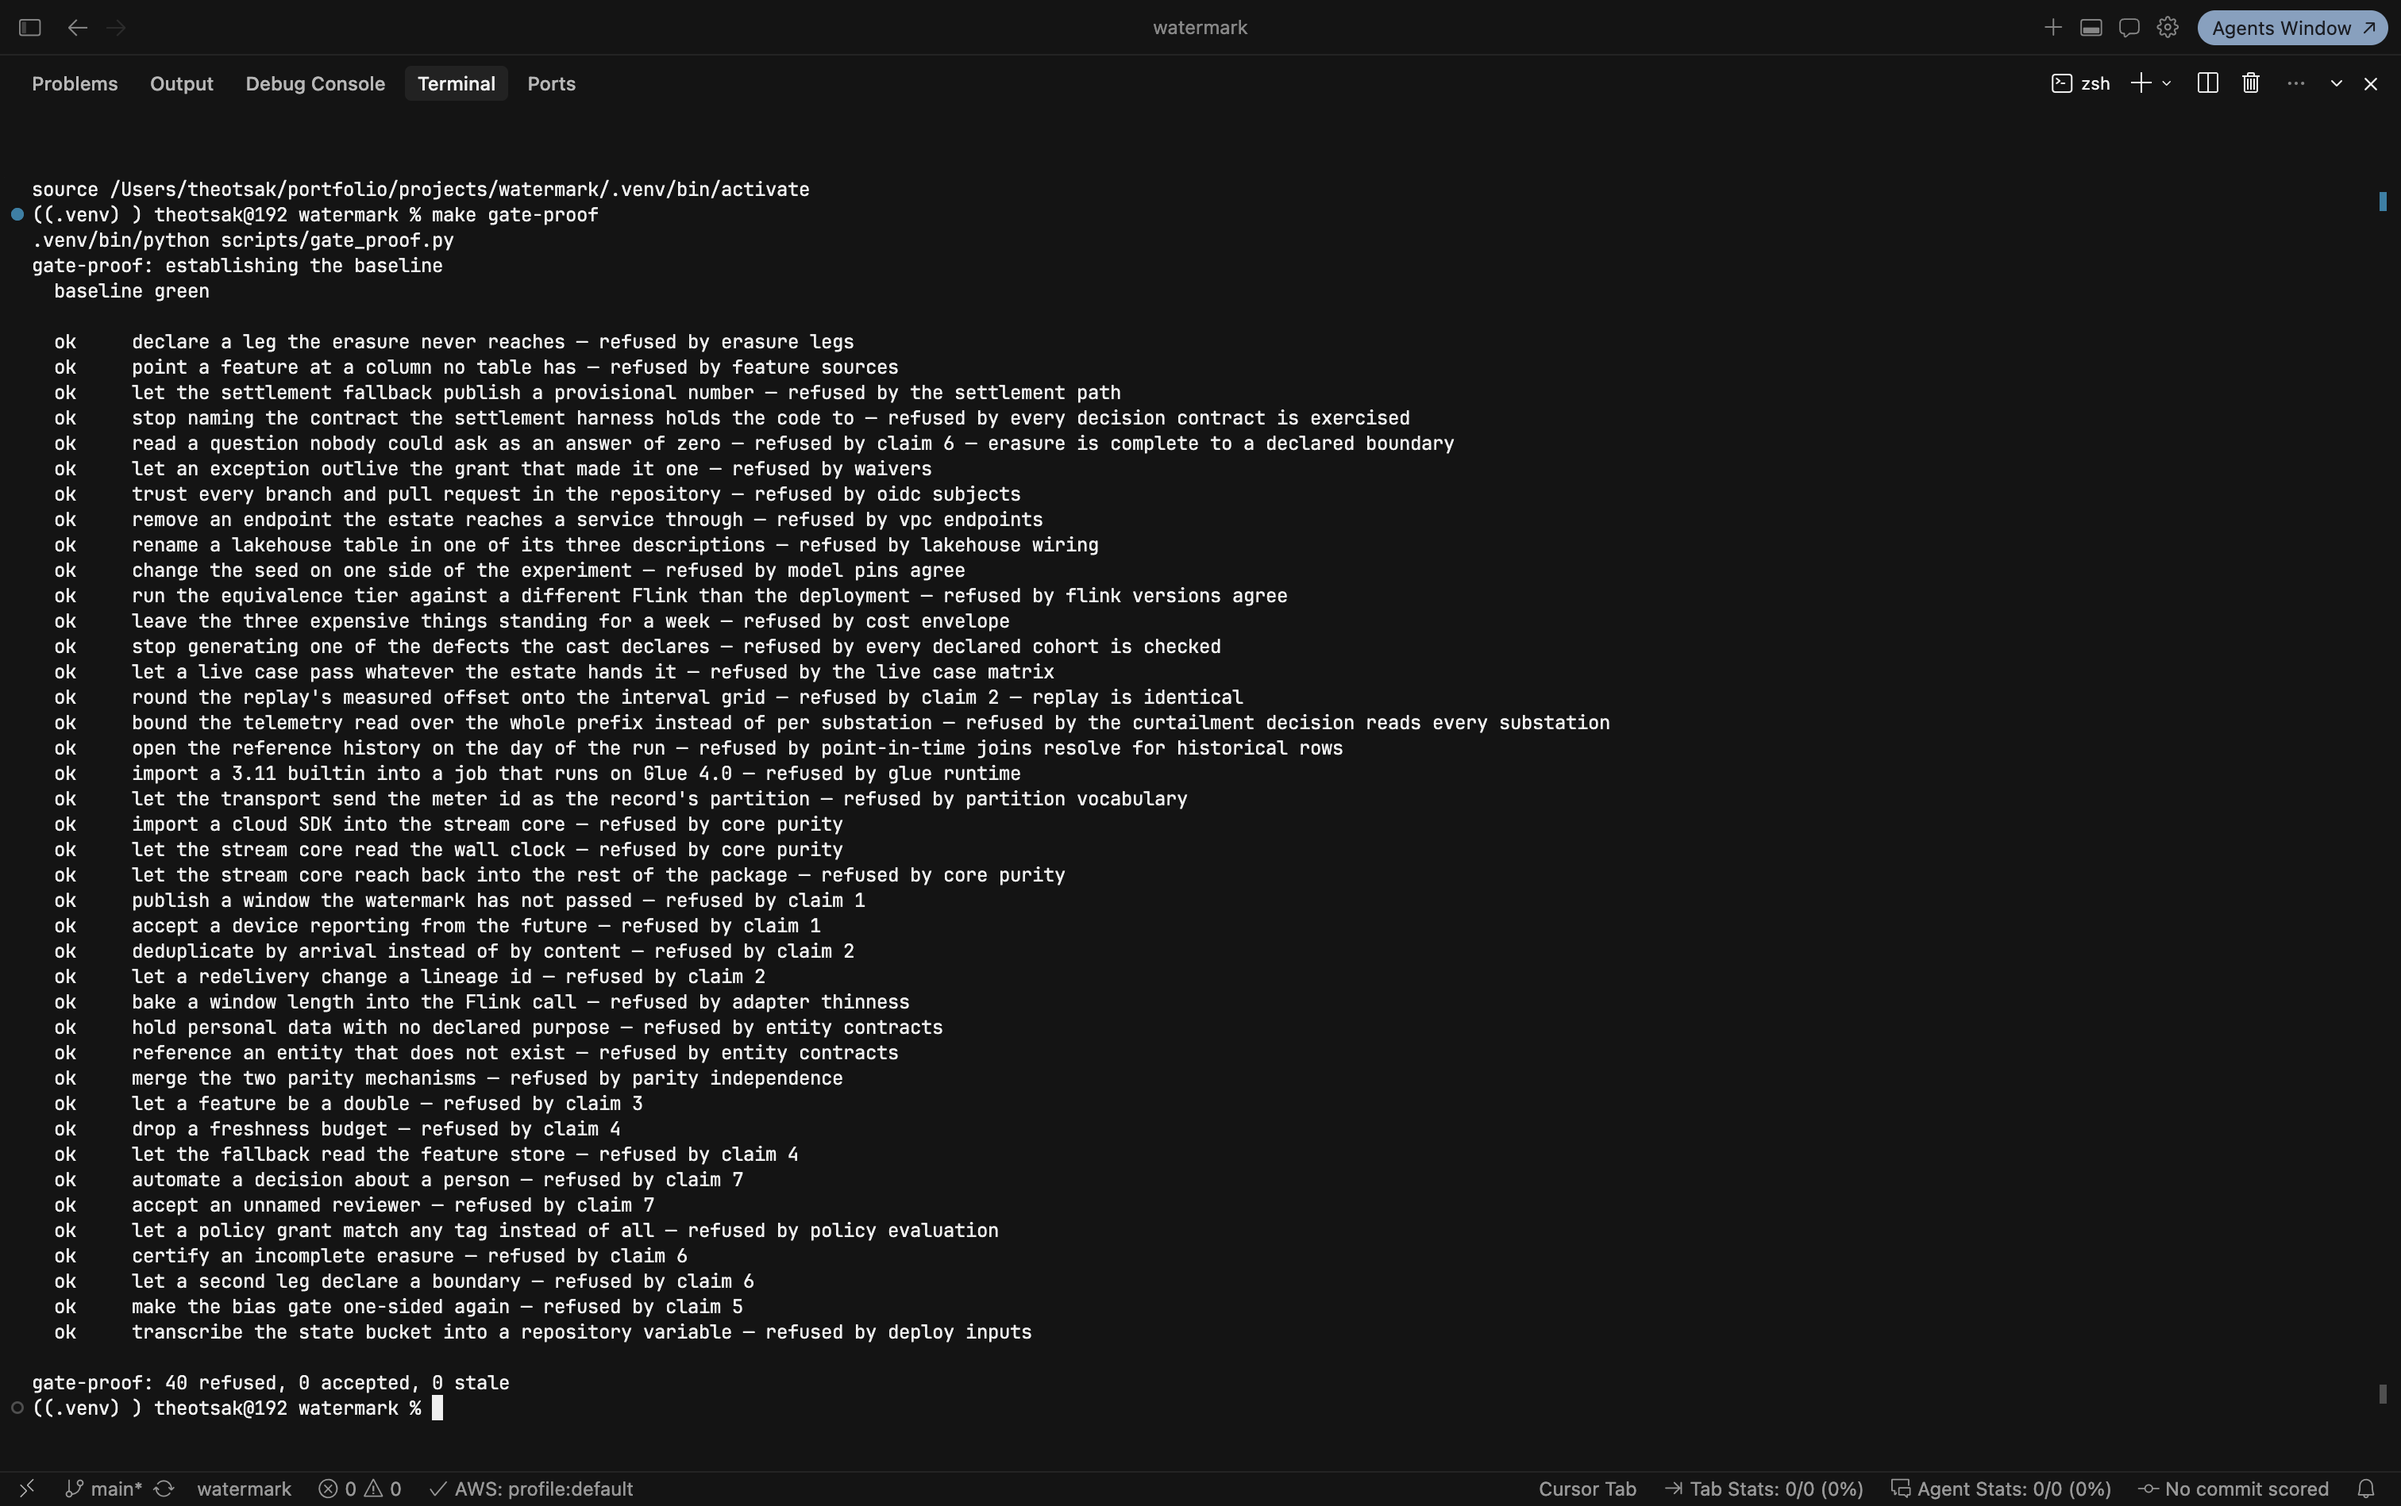
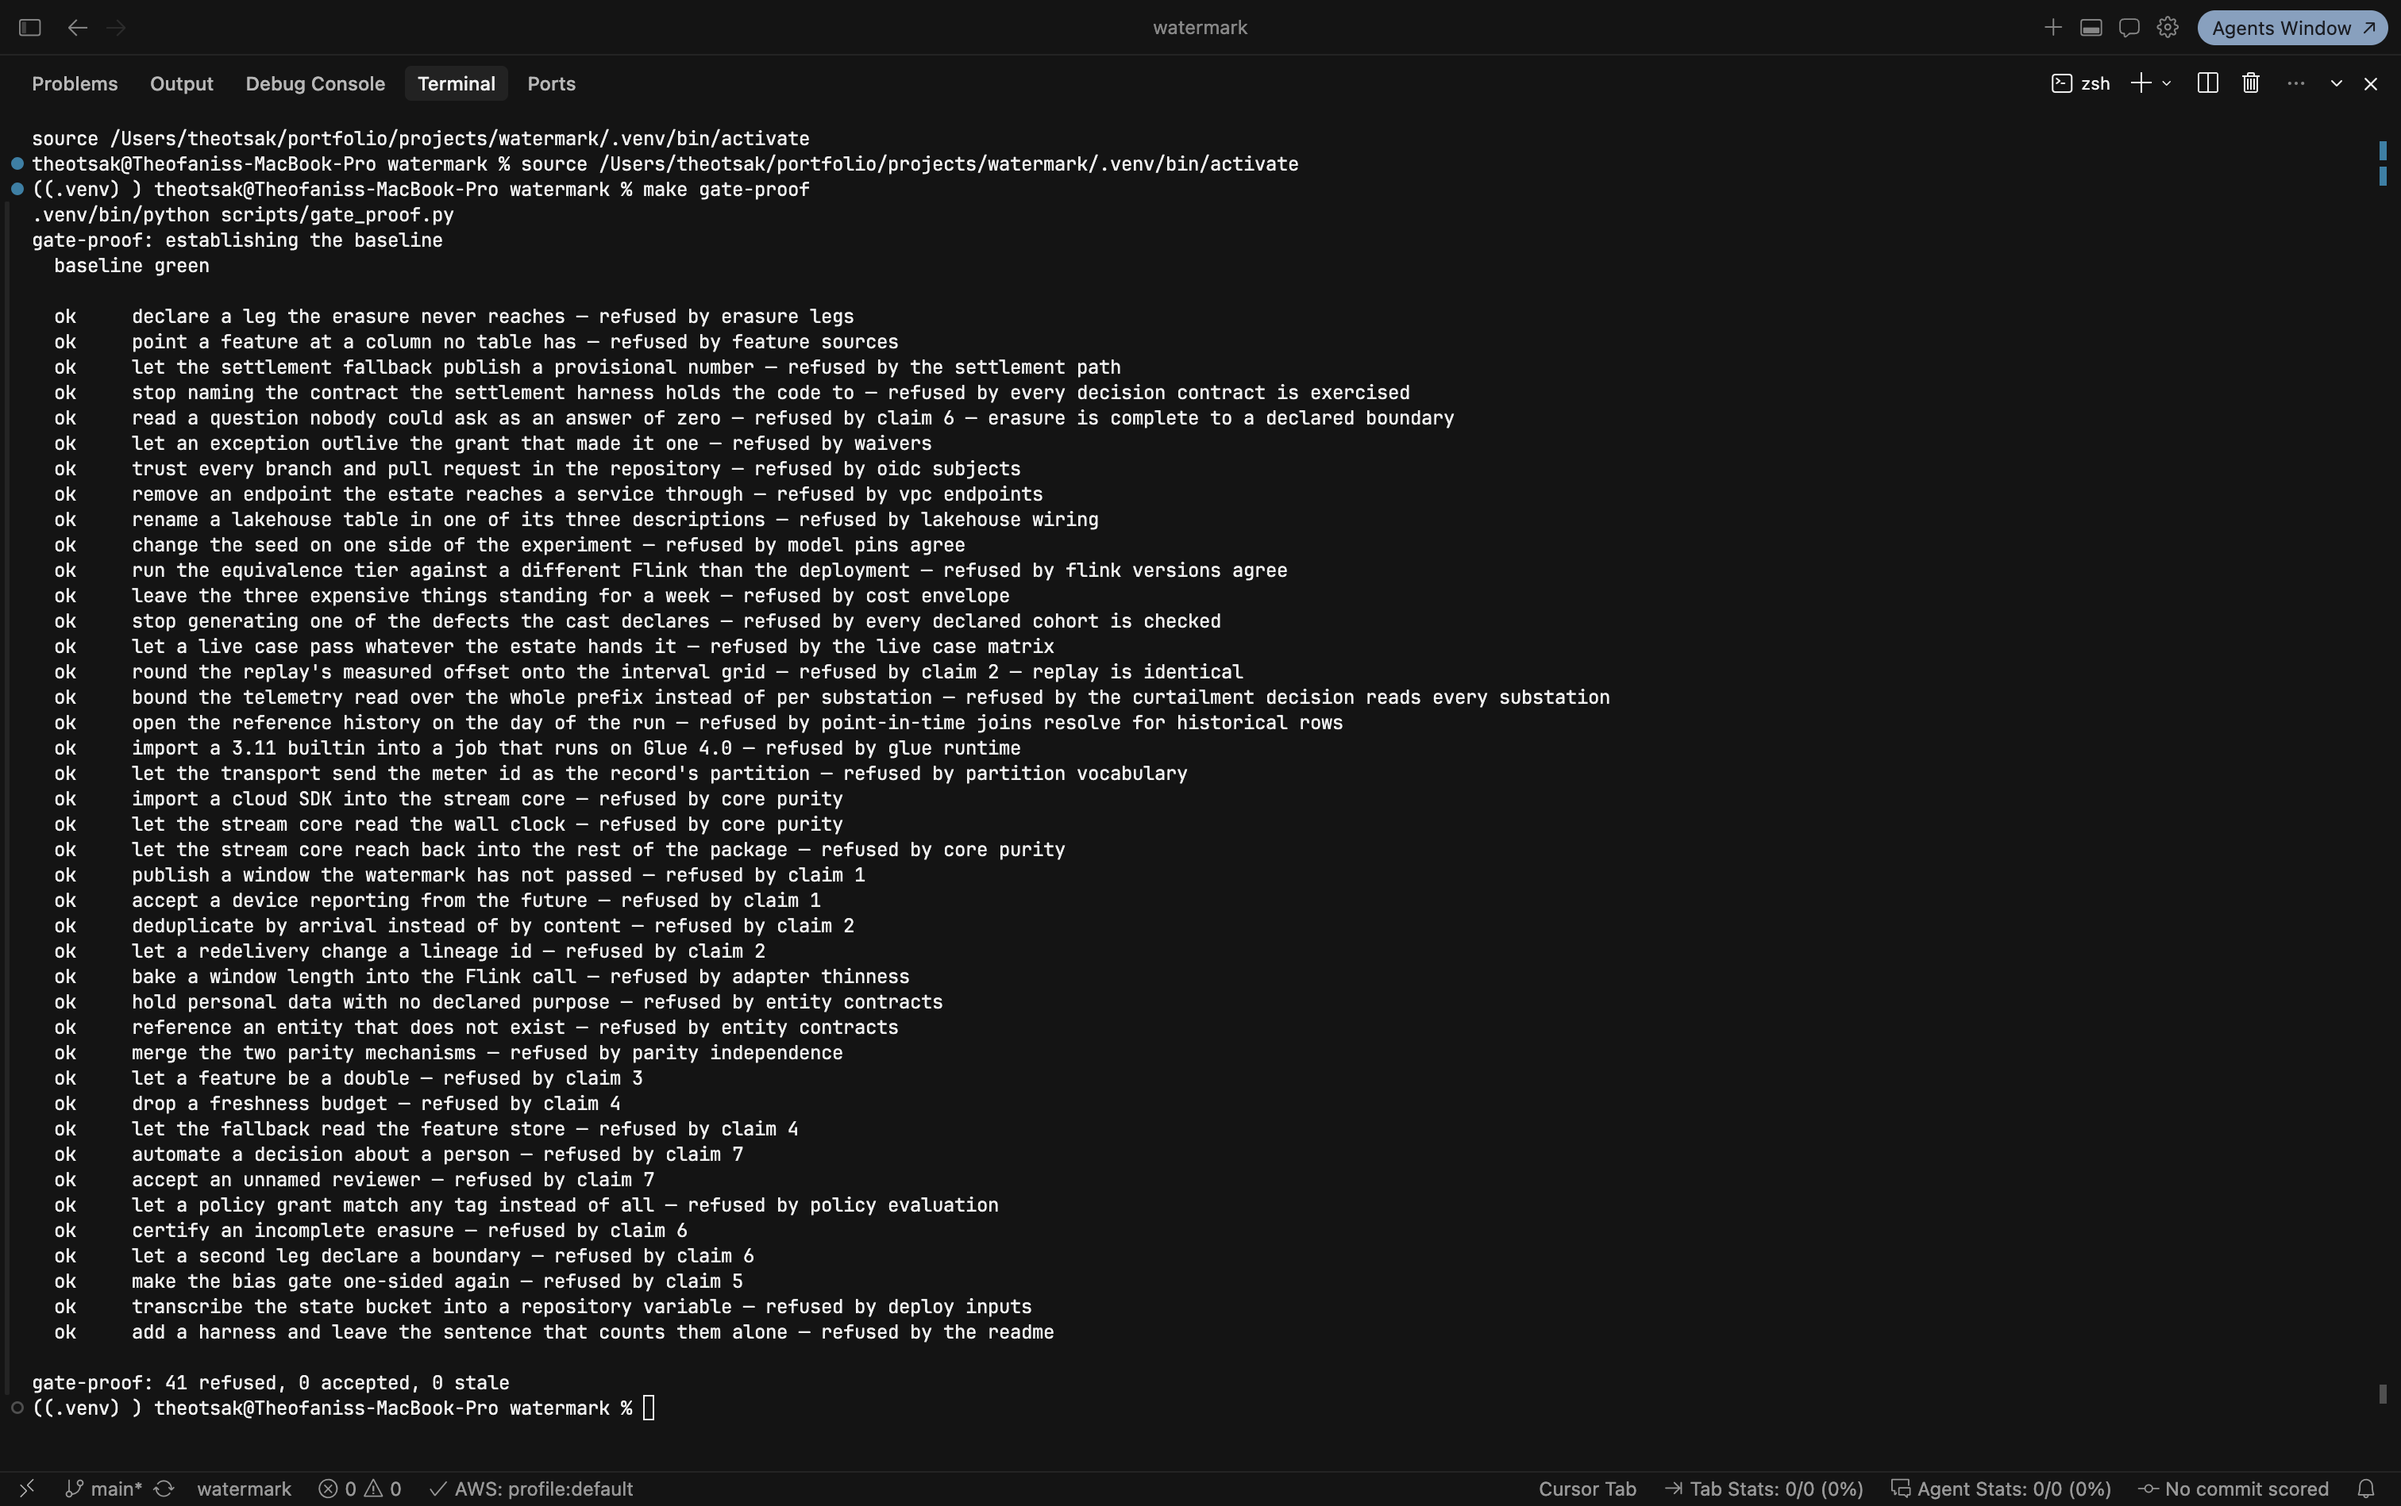
docs: the gate-proof screenshot shows the forty-first mutation
The image was the run before the readme check existed, so the caption had to explain
that the picture said 40 and the harness said 41. Retaken instead: the frame now ends
on 'add a harness and leave the sentence that counts them alone', refused by the readme,
which is the mutation that exists because this file drifted three times in a day.

Changed region(s): [[0.0, 0.0933, 0.6528, 0.9015], [0.1243, 0.9326, 0.1865, 0.9636], [0.2176, 0.9326, 0.2487, 0.9636]]

diff --git a/README.md b/README.md
@@ -438,11 +438,11 @@ non-zero exit is not evidence. A mutation whose target has moved is reported `ST
 `passed`.
 
 <p align="center">
-  <img src="images/gate_proof.png" width="900" alt="make gate-proof: 40 refused, 0 accepted, 0 stale — the run before the README check was added"><br>
-  <sub><b>40 refused, 0 accepted, 0 stale</b>, in the run pictured — the harness carries
-  <b>41</b> now, the newest being the one that plants a claim harness and leaves the sentence
-  counting them alone, which is how this README drifted three times in a day before anything
-  checked it. Read the mutation names rather than the total.
+  <img src="images/gate_proof.png" width="900" alt="make gate-proof: 41 refused, 0 accepted, 0 stale, ending with the mutation that adds a harness and leaves the sentence counting them alone"><br>
+  <sub><b>41 refused, 0 accepted, 0 stale</b> — read the mutation names rather than the total.
+  The last line is the newest: <i>add a harness and leave the sentence that counts them
+  alone</i>, refused by <code>the readme</code>, which exists because this README drifted three
+  times in a day before anything checked it.
   <i>automate a decision about a person</i> is claim 7 planted as a contract change.
   <i>let a redelivery change a lineage id</i> is claim 2. <i>round the replay's measured offset onto
   the interval grid</i>, <i>bound the telemetry read over the whole prefix instead of per
